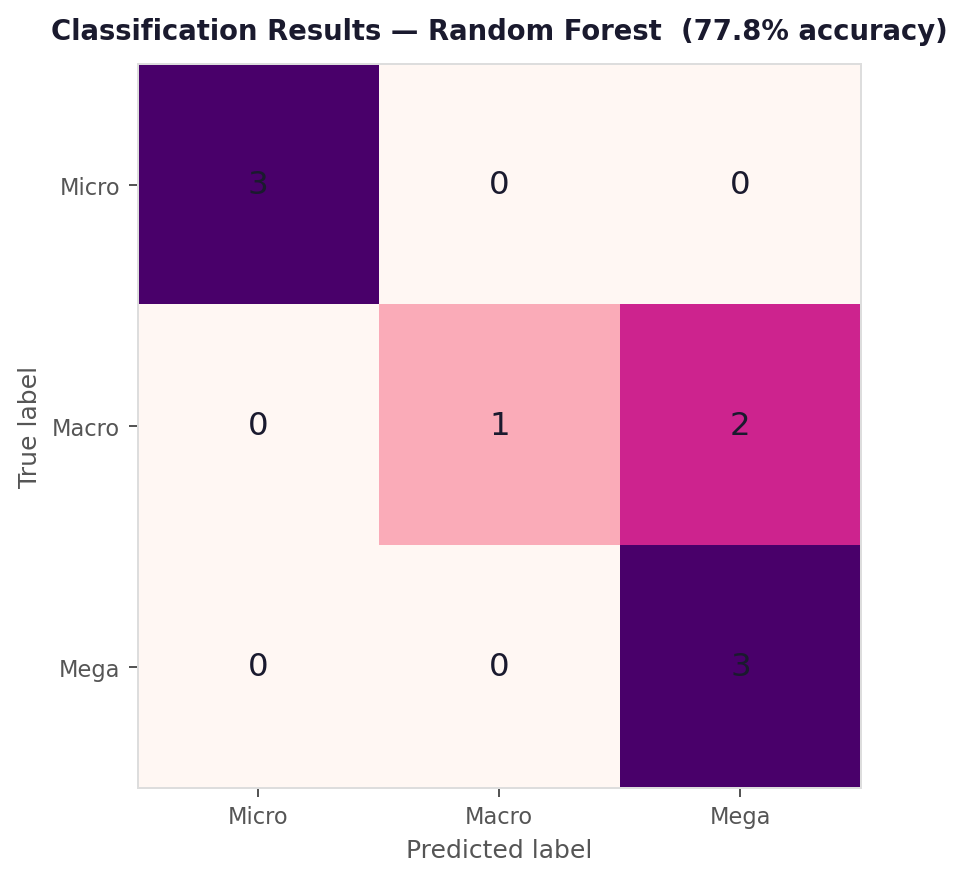
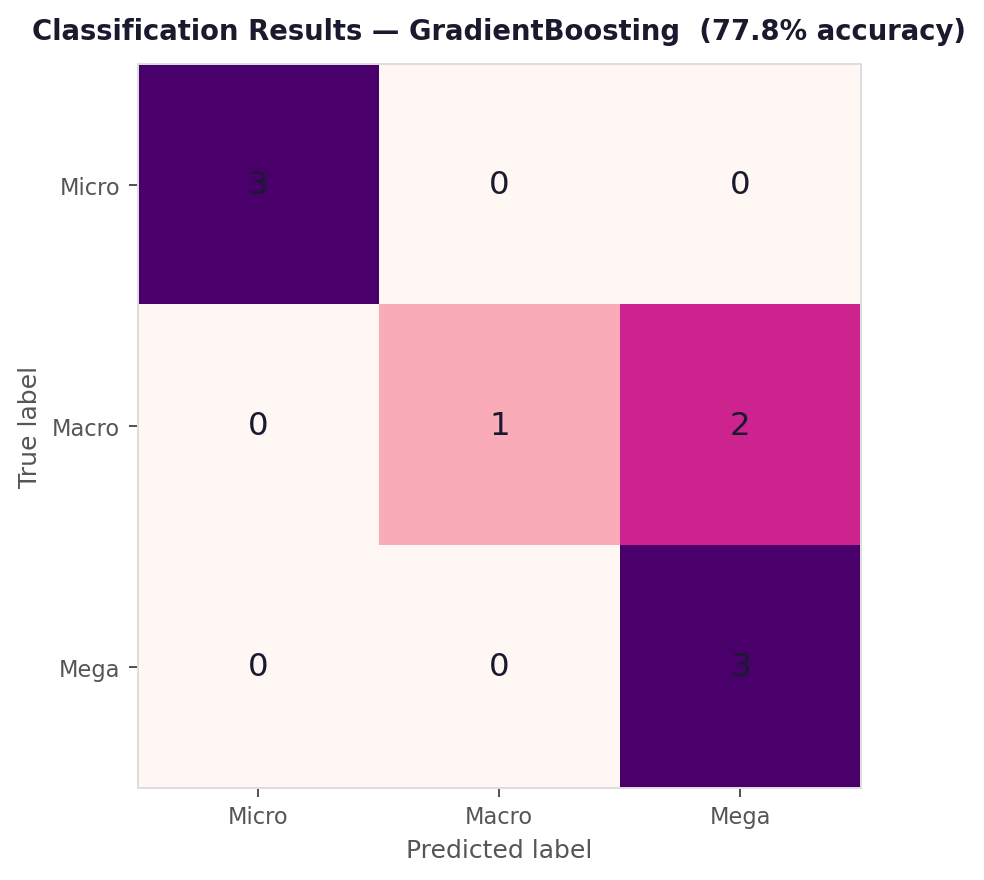
updated graphs

diff --git a/trend_classification_final.py b/trend_classification_final.py
@@ -539,23 +539,27 @@ def path1_supervised(X_train, y_train, X_test, y_test):
     print(f"\n  Best on test: {best_test_name}  "
           f"({test_results[best_test_name]['acc']:.1%})")
 
-    # ── Step D: Feature importances (trained on full training set) ─────────
-    rf_final = RandomForestClassifier(
-        n_estimators=500, max_features="sqrt",
-        class_weight="balanced", random_state=SEED, n_jobs=-1
-    )
-    scaler_final = StandardScaler()
-    X_train_scaled = scaler_final.fit_transform(X_train.values)
-    rf_final.fit(X_train_scaled, y_train_enc)
+    # ── Step D: Feature importances from best test model ──────────────────
+    # Refit the best model pipeline on full training set, then extract importances
+    if best_test_name in models:
+        best_model_pipeline = models[best_test_name]
+        best_model_pipeline.fit(X_train.values, y_train_enc)
+        clf_final = best_model_pipeline.named_steps["clf"]
+    else:
+        # RF_tuned fallback — refit tuned RF
+        best_model_pipeline = search.best_estimator_
+        best_model_pipeline.fit(X_train.values, y_train_enc)
+        clf_final = best_model_pipeline.named_steps["clf"]
+
     importances = pd.Series(
-        rf_final.feature_importances_, index=X_train.columns
+        clf_final.feature_importances_, index=X_train.columns
     ).sort_values(ascending=False)
 
     # ── Plots ─────────────────────────────────────────────────────────────
     _plot_model_comparison(cv_results, test_results)
     _plot_confusion(y_test, test_results[best_test_name]["y_pred"],
                     best_test_name, test_results[best_test_name]["acc"])
-    _plot_feature_importance(importances)
+    _plot_feature_importance(importances, best_test_name)
     _plot_per_trend_results(X_test, y_test,
                             test_results[best_test_name]["y_pred"],
                             best_test_name)
@@ -629,7 +633,7 @@ def _plot_confusion(y_true, y_pred, model_name, acc):
     cm   = confusion_matrix(y_true, y_pred, labels=LABEL_ORDER)
     disp = ConfusionMatrixDisplay(cm, display_labels=LABEL_ORDER)
     disp.plot(ax=ax, colorbar=False, cmap="RdPu")
-    ax.set_title(f"Classification Results — Random Forest  ({acc:.1%} accuracy)",
+    ax.set_title(f"Classification Results — {model_name}  ({acc:.1%} accuracy)",
                  color=TEXT_DARK, fontsize=11, fontweight="bold", pad=10)
     ax.tick_params(colors=TEXT_MID)
     ax.xaxis.label.set_color(TEXT_MID)
@@ -644,7 +648,7 @@ def _plot_confusion(y_true, y_pred, model_name, acc):
     print(f"  Saved: {path}")
 
 
-def _plot_feature_importance(importances):
+def _plot_feature_importance(importances, model_name="Best Model"):
     top = importances.head(20).sort_values(ascending=True)
     fig, ax = plt.subplots(figsize=(9, 6))
     fig.patch.set_facecolor(BG)
@@ -653,7 +657,7 @@ def _plot_feature_importance(importances):
     colours = [PURPLE if v > med else PURPLE_L for v in top.values]
     ax.barh(top.index, top.values, color=colours, alpha=0.88)
     ax.set_xlabel("Mean decrease in impurity", color=TEXT_MID)
-    ax.set_title("Most Predictive Features for Trend Classification",
+    ax.set_title(f"Most Predictive Features for Trend Classification ({model_name})",
                  color=TEXT_DARK, fontsize=12, fontweight="bold", pad=10)
     ax.tick_params(colors=TEXT_MID, labelsize=9)
     plt.tight_layout()
@@ -687,7 +691,7 @@ def _plot_per_trend_results(X_test, y_test, y_pred, model_name):
 
     ax.set_xlim(0, 1.6)
     ax.set_xlabel("Correct / Incorrect", color=TEXT_MID)
-    ax.set_title("Per-Trend Classification Results on Held-Out Test Set",
+    ax.set_title(f"Per-Trend Classification Results — {model_name}  (Held-Out Test Set)",
                  color=TEXT_DARK, fontsize=12, fontweight="bold", pad=10)
     ax.tick_params(colors=TEXT_MID, labelsize=9)
     plt.tight_layout()
